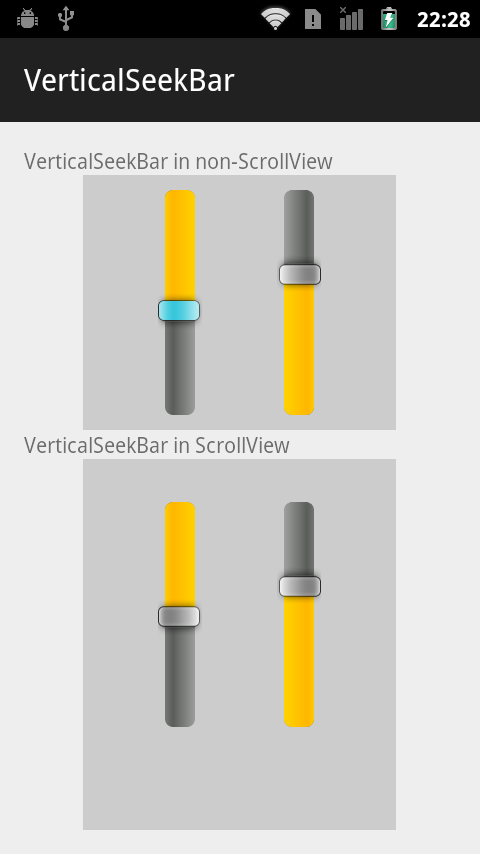
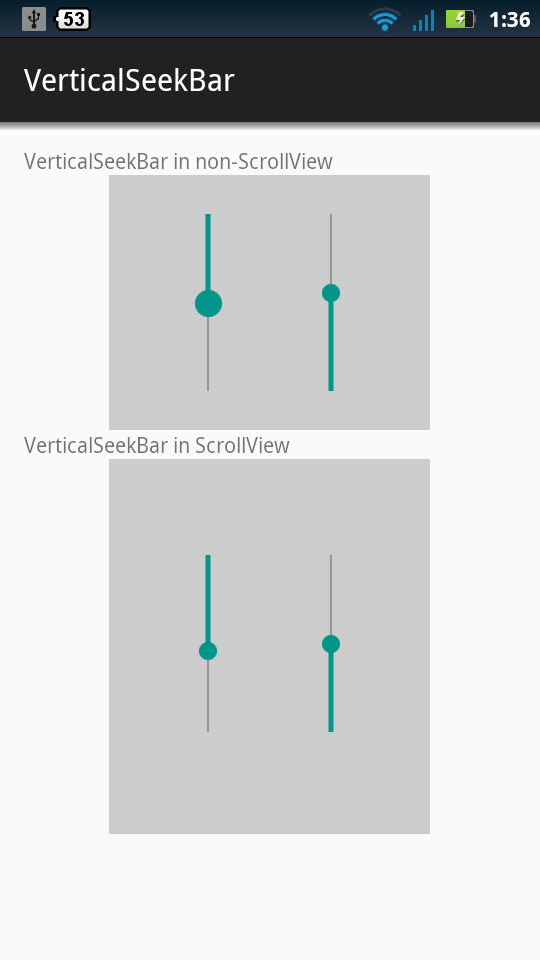
Prepare for v0.6.0 release

Changed region(s): [[0.0, 0.0, 1.0, 0.9742]]

diff --git a/README.md b/README.md
@@ -1,15 +1,16 @@
 VerticalSeekBar
 ===============
 
-Vertical SeekBar class which supports Android 2.3 - 5.0.
+Vertical SeekBar class which supports Android 2.3 - 6.0.
 
 [![Android Arsenal](https://img.shields.io/badge/Android%20Arsenal-VerticalSeekBar-brightgreen.svg?style=flat)](https://android-arsenal.com/details/1/1436)
 
 ---
 
-<a href="./pic/gb.png?raw=true"><img src="./pic/gb.png?raw=true" alt="Example on Android 2.3" width="200" /></a>
-<a href="./pic/ics.png?raw=true"><img src="./pic/ics.png?raw=true" alt="Example on Android 4.0" width="200" /></a>
-<a href="./pic/lollipop.png?raw=true"><img src="./pic/lollipop.png?raw=true" alt="Example on Android 5.0" width="200" /></a>
+### Screenshots
+| Gingerbread |    ICS    | Lollipop   | Marshmallow |
+|-------------|-----------|------------|-------------|
+| <img src="./pic/gb.png?raw=true" alt="Example on Android 2.3" width="150" /> | <img src="./pic/ics.png?raw=true" alt="Example on Android 4.0" width="150" /> | <img src="./pic/lollipop.png?raw=true" alt="Example on Android 5.0" width="150" /> | <img src="./pic/marshmallow.png?raw=true" alt="Example on Android 5.0" width="150" /> |
 
 ---
 
@@ -17,13 +18,14 @@ Target platforms
 ---
 
 - from Android 2.3.x  (Gingerbread)
-- to Android 5.0.x (Lollipop)
+- to Android 6.0.x (Marshmallow)
 
 
 Latest version
 ---
 
-- Version 0.5.2  (July 5, 2015)
+- Version 0.6.0  (December 13, 2015)
+
 
 
 Getting started
@@ -33,9 +35,13 @@ This library is published on jCenter. Just add these lines to `build.gradle`.
 
 ```groovy
 dependencies {
-    compile 'com.h6ah4i.android.widget.verticalseekbar:verticalseekbar:0.5.2'
+    compile 'com.h6ah4i.android.widget.verticalseekbar:verticalseekbar:0.6.0'
 }
 ```
+
+### Notice
+Since v0.6.0 `VerticalSeekBar` has changed to extend `AppCompatSeekBar` from support library. If you want to use platform native SeekBar, please use v0.5.2 instead.
+
 
 Usage
 ---
